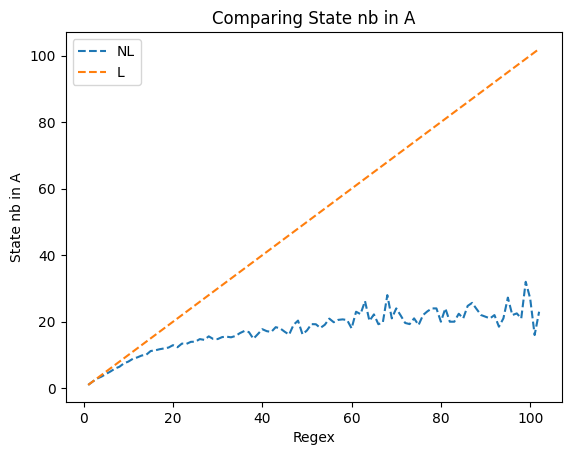
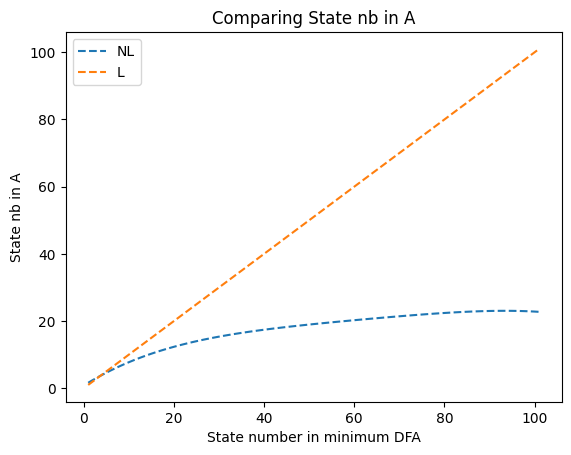
Little update

diff --git a/dist/teacher/Teacher.js b/dist/teacher/Teacher.js
@@ -1,8 +1,9 @@
 import{TeacherAutomaton}from"./TeacherAutomaton.js";import{TeacherNoAutomaton}from"./TeacherNoAutomaton.js";import{allStringFromAlphabet}from"../tools/Utilities.js";export let teacher_a_or_baStar=new TeacherAutomaton("a+(ba)*");export let teacherPairZeroAndOne=new TeacherAutomaton("(00+11+(01+10)(00+11)*(01+10))*",`Automaton accepting L = {w in (0, 1)* | #(w_0) % 2 = 0 and #(w_1) % 2 = 0} <br/> → words with even nb of '0' and even nb of '1'`);export let teacherA3fromLast=new TeacherAutomaton("(a+b)*a(a+b)(a+b)",`Automaton accepting L = {w in (a, b)* | w[-3] = a} <br/>
     → words with an 'a' in the 3rd pos from end`);export let teacherEvenAandThreeB=new TeacherAutomaton("b*a(b+ab*a)*+(a+b)*ba*ba*b(a+b)*",`Automaton accepting L = {w in (a, b)* | #(w_b) ≥ 3 or #(w_a) % 2 = 1}
   <br/> → words with at least 3 'b' or an odd nb of 'a'`);export let teacherNotAfourthPos=new TeacherAutomaton("((a+b)(a+b)(a+b)b)*(a+b+$)(a+b+$)(a+b+$)",`Automaton accepting L = {w ∈ (a,b)* and i ∈ 4ℕ | w[i] ≠ a and i ≤ len(w)} <br/>
-  → words without an 'a' in a position multiple of 4`);export let teacher_bStar_a_or_aStart_bStar=new TeacherNoAutomaton({alphabet:"ab",regex:"((bb*a)|(a*b*))",counter_examples:["bba","b","aabb","aba","aa","bbaa"]},`Automaton accepting L = regex((bb^*a) + (a^*b^*))`);export let teacher_b_bStar_a__b_aOrb_star=new TeacherAutomaton("bb*($+a(b(a+b))*)");export let binaryAddition=new TeacherNoAutomaton({alphabet:"012345678",regex:sentence=>{let charToBin=char=>(parseInt(char)>>>0).toString(2).padStart(3,"0");let sentenceAr=Array.from(sentence).map(e=>charToBin(e));let fst_term=parseInt(sentenceAr.map(e=>e[0]).join(""),2);let snd_term=parseInt(sentenceAr.map(e=>e[1]).join(""),2);let trd_term=parseInt(sentenceAr.map(e=>e[2]).join(""),2);return fst_term+snd_term==trd_term},counter_examples:allStringFromAlphabet({alphabet:"012345678",maxLength:3})},`  
-       * Automaton calculating addition between binary integers:
+  → words without an 'a' in a position multiple of 4`);export let teacher_bStar_a_or_aStart_bStar=new TeacherNoAutomaton({alphabet:"ab",regex:"((bb*a)|(a*b*))",counter_examples:["bba","b","aabb","aba","aa","bbaa"]},`Automaton accepting L = regex((bb^*a) + (a^*b^*))`);export let teacher_b_bStar_a__b_aOrb_star=new TeacherAutomaton("bb*($+a(b(a+b))*)");export let binaryAddition=new TeacherNoAutomaton({alphabet:"012345678",regex:sentence=>{let charToBin=char=>(parseInt(char)>>>0).toString(2).padStart(3,"0");let sentenceAr=Array.from(sentence).map(e=>charToBin(e));let fst_term=parseInt(sentenceAr.map(e=>e[0]).join(""),2);let snd_term=parseInt(sentenceAr.map(e=>e[1]).join(""),2);let trd_term=parseInt(sentenceAr.map(e=>e[2]).join(""),2);return fst_term+snd_term==trd_term},counter_examples:allStringFromAlphabet({alphabet:"012345678",maxLength:3})},`  <pre>
+       /**
+       *  Automaton calculating addition between binary integers: 
        * exemple : 
        * 0101 + 
        * 1001 =
@@ -10,5 +11,5 @@ import{TeacherAutomaton}from"./TeacherAutomaton.js";import{TeacherNoAutomaton}fr
        * is a valid exemple that can be sent to the automaton with the encoding 3516
        * 3 = 011 (the 1st col), 5 = 101 (the 2nd col), 
        * 1 = 001 (the 3rd col), 6 = 110 (the 4th col) 
-       **/ `);export let teachers=[teacher_a_or_baStar,teacher_b_bStar_a__b_aOrb_star,binaryAddition,teacherA3fromLast,teacherEvenAandThreeB,teacherNotAfourthPos,teacherPairZeroAndOne,teacher_bStar_a_or_aStart_bStar];
+       **/</pre> `);export let teachers=[teacher_a_or_baStar,teacher_b_bStar_a__b_aOrb_star,binaryAddition,teacherA3fromLast,teacherEvenAandThreeB,teacherNotAfourthPos,teacherPairZeroAndOne,teacher_bStar_a_or_aStart_bStar];
 //# sourceMappingURL=Teacher.js.map

diff --git a/src/teacher/Teacher.ts b/src/teacher/Teacher.ts
@@ -80,8 +80,9 @@ export let binaryAddition = new TeacherNoAutomaton(
       return fst_term + snd_term == trd_term;
     },
     counter_examples: allStringFromAlphabet({ alphabet: '012345678', maxLength: 3 })
-  }, `  
-       * Automaton calculating addition between binary integers:
+  }, `  <pre>
+       /**
+       *  Automaton calculating addition between binary integers: 
        * exemple : 
        * 0101 + 
        * 1001 =
@@ -89,6 +90,6 @@ export let binaryAddition = new TeacherNoAutomaton(
        * is a valid exemple that can be sent to the automaton with the encoding 3516
        * 3 = 011 (the 1st col), 5 = 101 (the 2nd col), 
        * 1 = 001 (the 3rd col), 6 = 110 (the 4th col) 
-       **/ `)
+       **/</pre> `)
 
 export let teachers = [teacher_a_or_baStar, teacher_b_bStar_a__b_aOrb_star, binaryAddition, teacherA3fromLast, teacherEvenAandThreeB, teacherNotAfourthPos, teacherPairZeroAndOne, teacher_bStar_a_or_aStart_bStar]

diff --git a/statistics/pythonPlotter/csvToPlot.py b/statistics/pythonPlotter/csvToPlot.py
@@ -7,7 +7,7 @@ import numpy as np
 
 folderPrefix = ["statistics/", "../"][0]
 plotFolder = "plots/"
-trendGraphic = False
+trendGraphic = True
 
 
 def objective(x, a, b, c, d, f):
@@ -49,7 +49,8 @@ def plotCsv(df: pd.DataFrame, comparator: str, algos: str, fileName: str):
         print(f"{i} {comparator} {fileName}")
         ax.plot(x_line, y_line, '--', label=i)
     leg = ax.legend()
-    ax.set_xlabel("Regex")
+    ax.set_xlabel(
+        "Regex" if 'benchMark' not in fileName else 'State number in minimum DFA')
     ax.set_ylabel(comparator)
     savePlot(fig, fileName)
     # show(fig)
